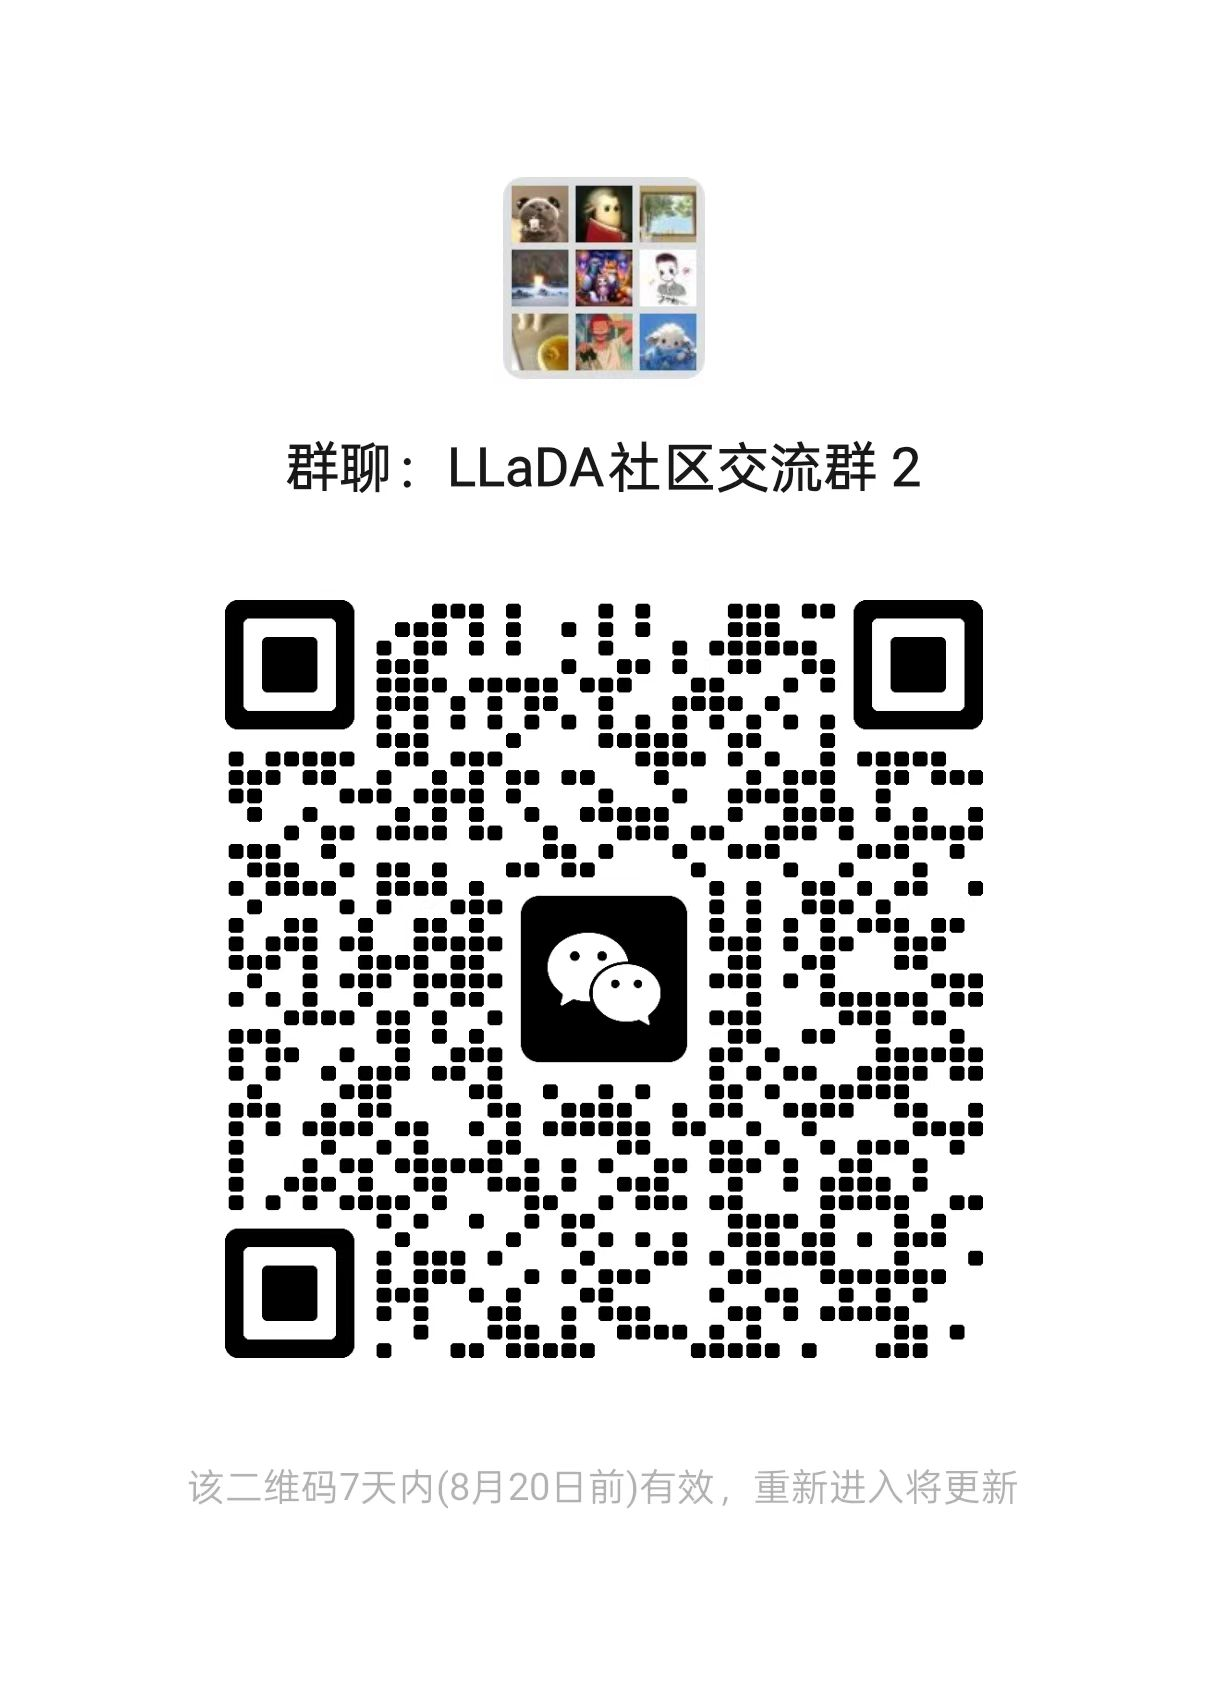
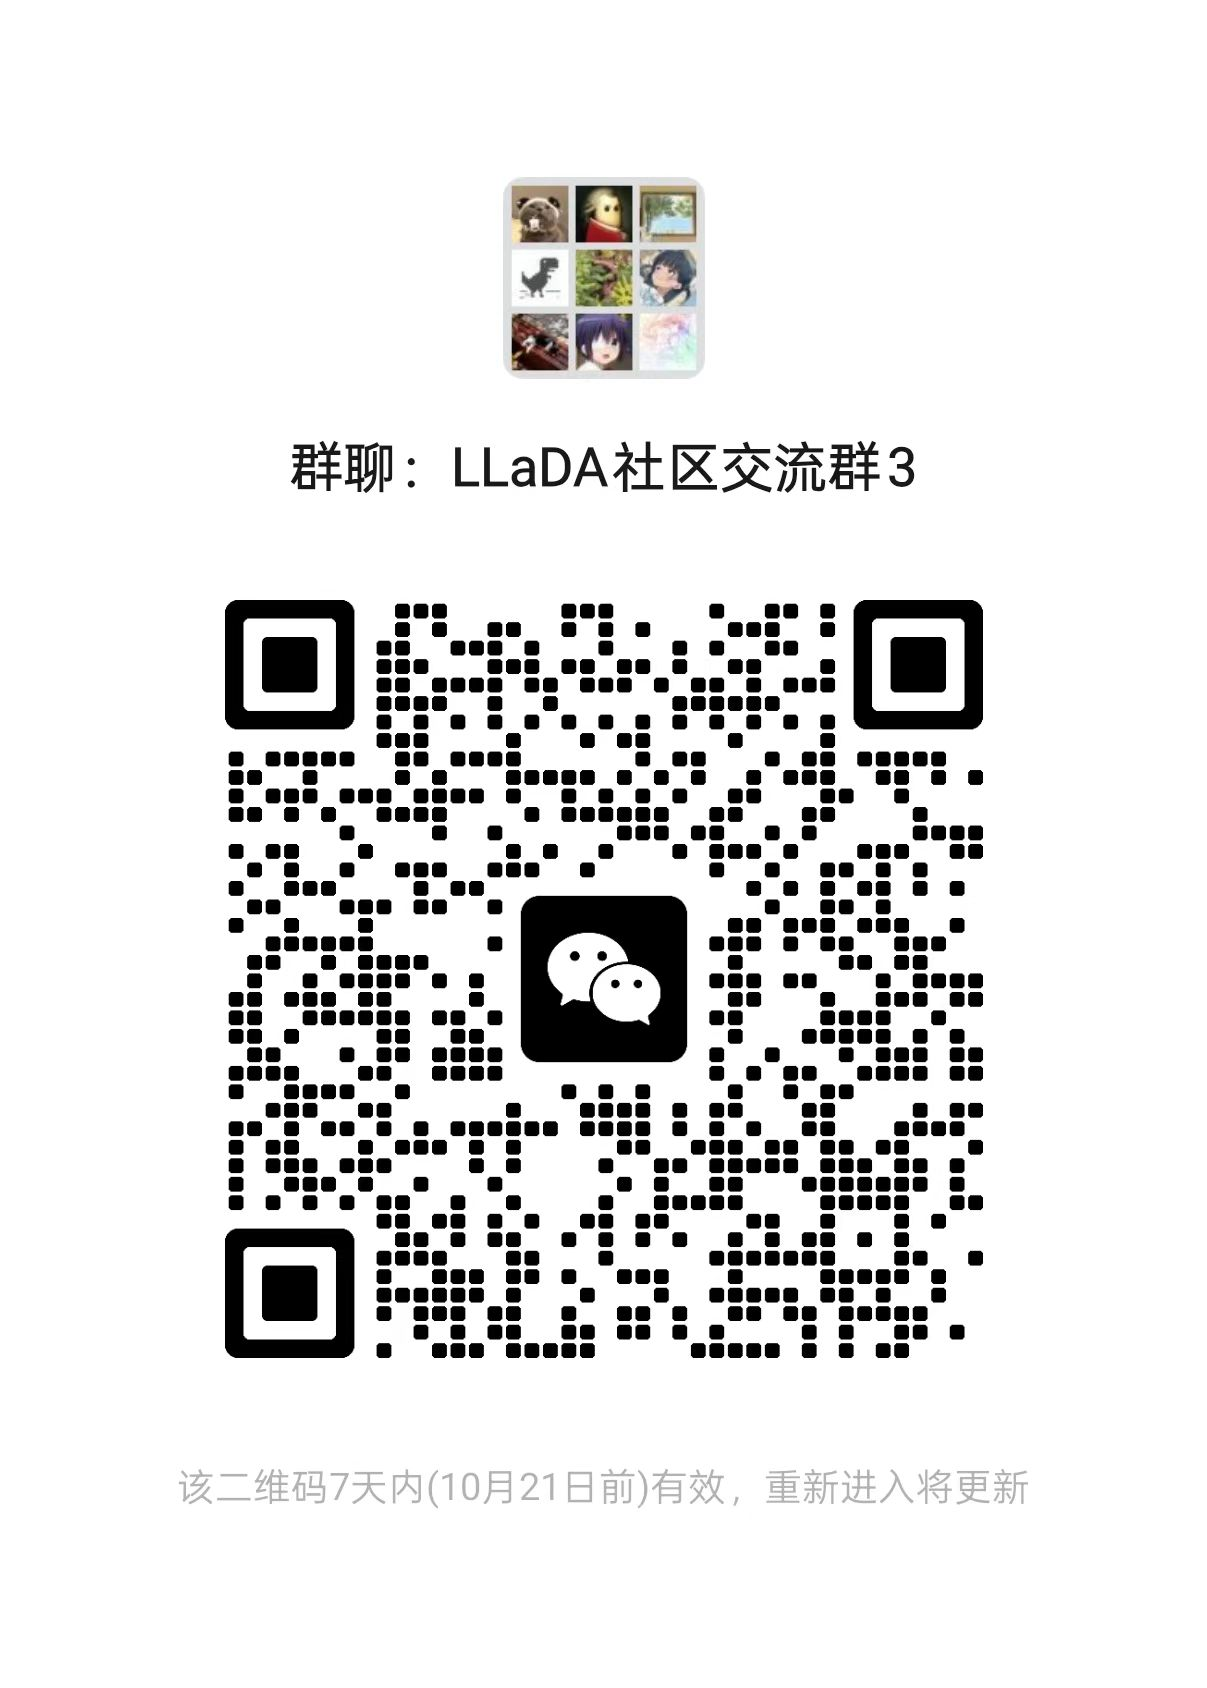
update vx.jpg

diff --git a/README.md b/README.md
@@ -167,7 +167,7 @@ We are also very grateful to Chengyue for helping us adapt [Fast-dLLM](https://g
 Feel free to scan the WeChat QR code below to participate in the discussion and stay updated with the latest progress.
 
 <div style="display: flex; justify-content: center; flex-wrap: wrap;">
-    <img src="https://github.com/ML-GSAI/LLaDA/blob/main/imgs/QR.JPG" style="width: 50%" />
+    <img src="vx.jpg" style="width: 50%" />
 </div>
 
 ## Citation
